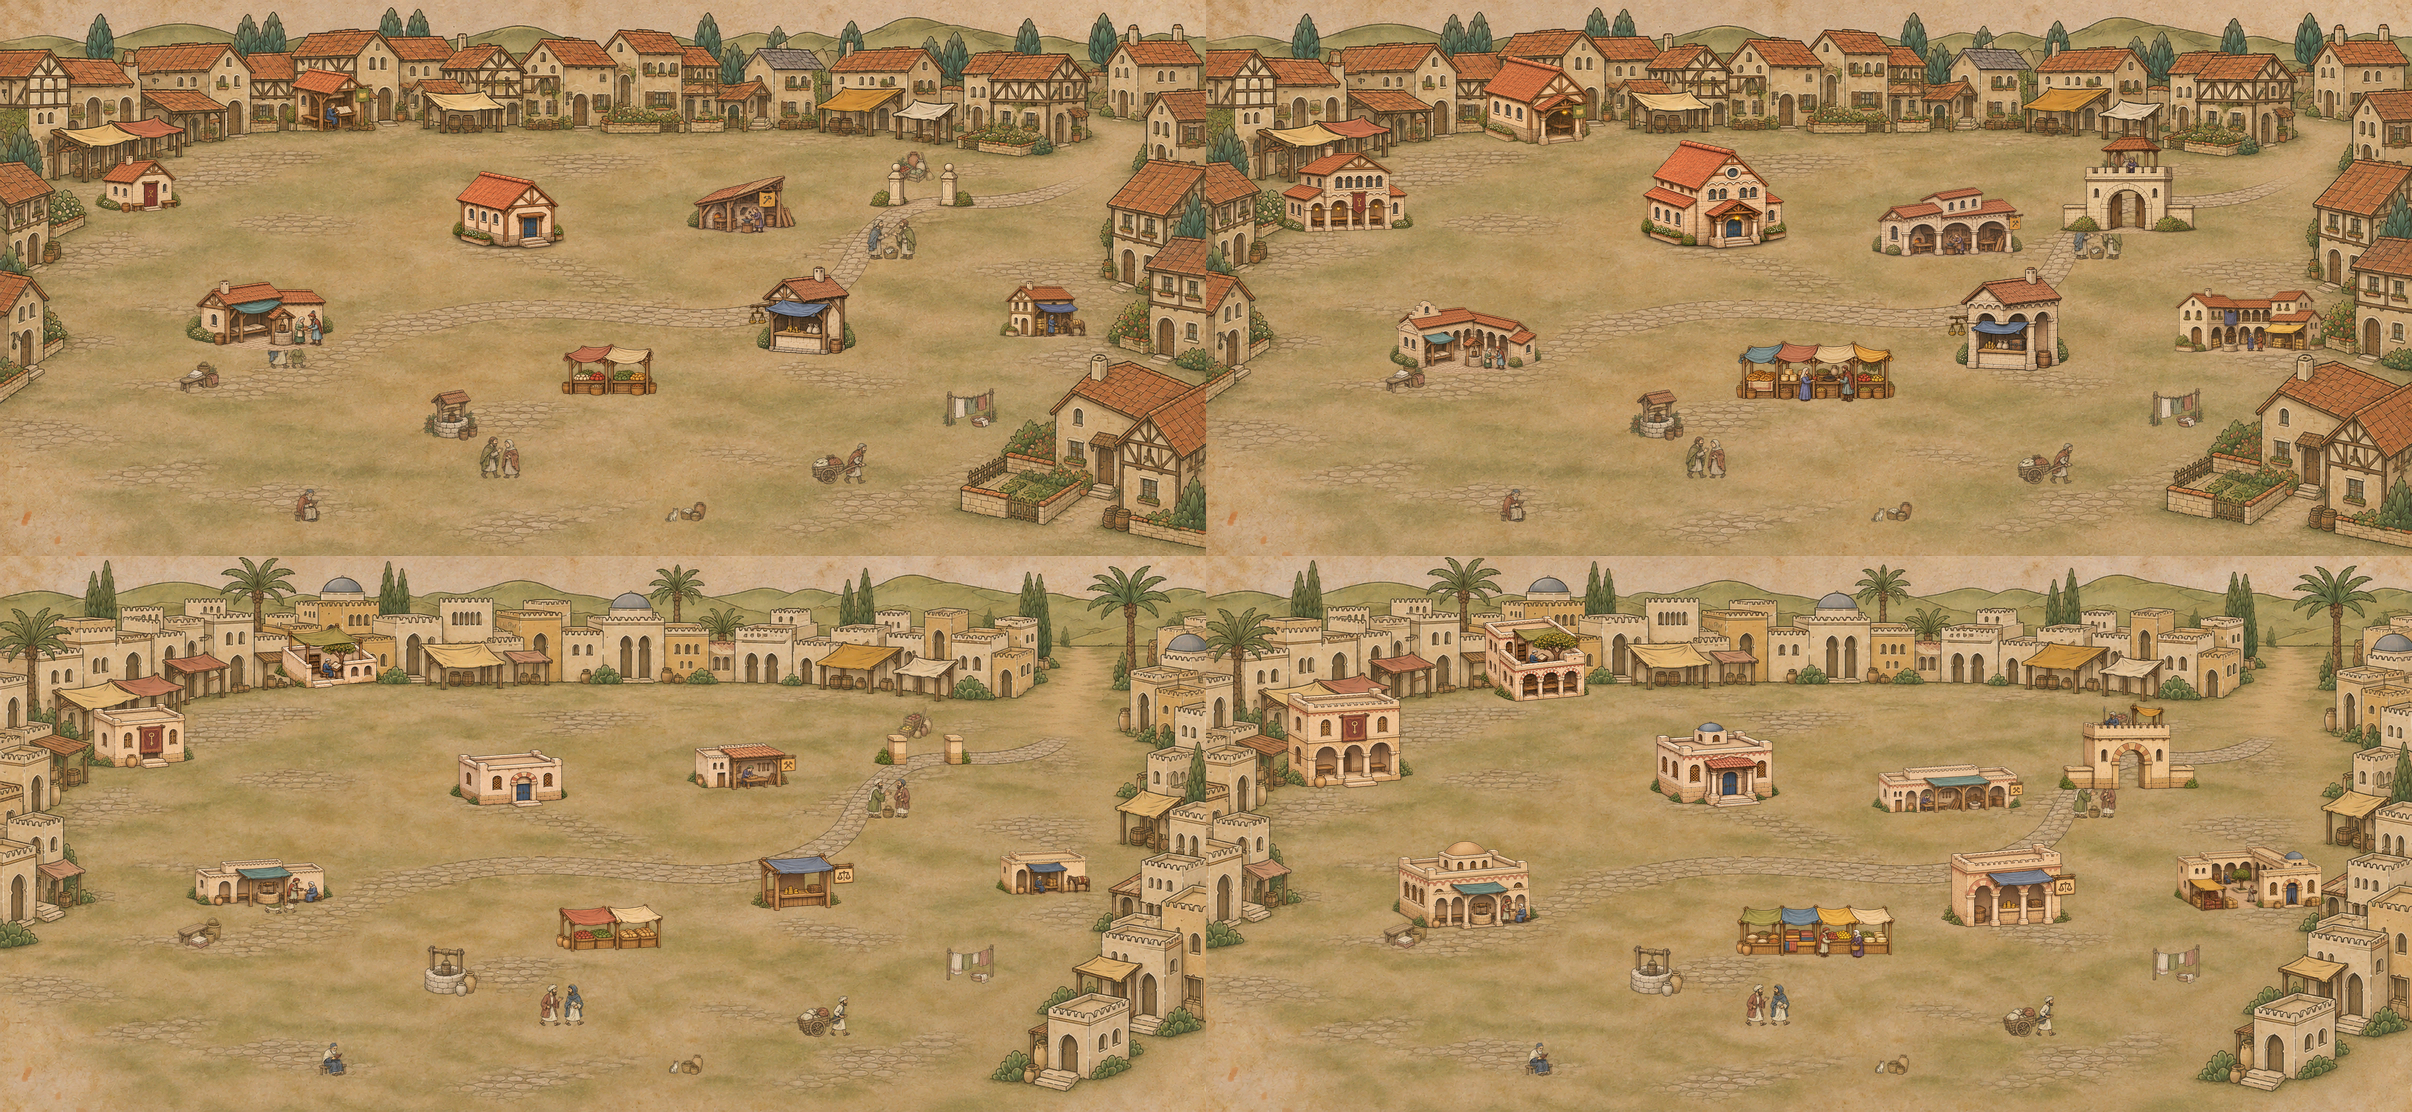
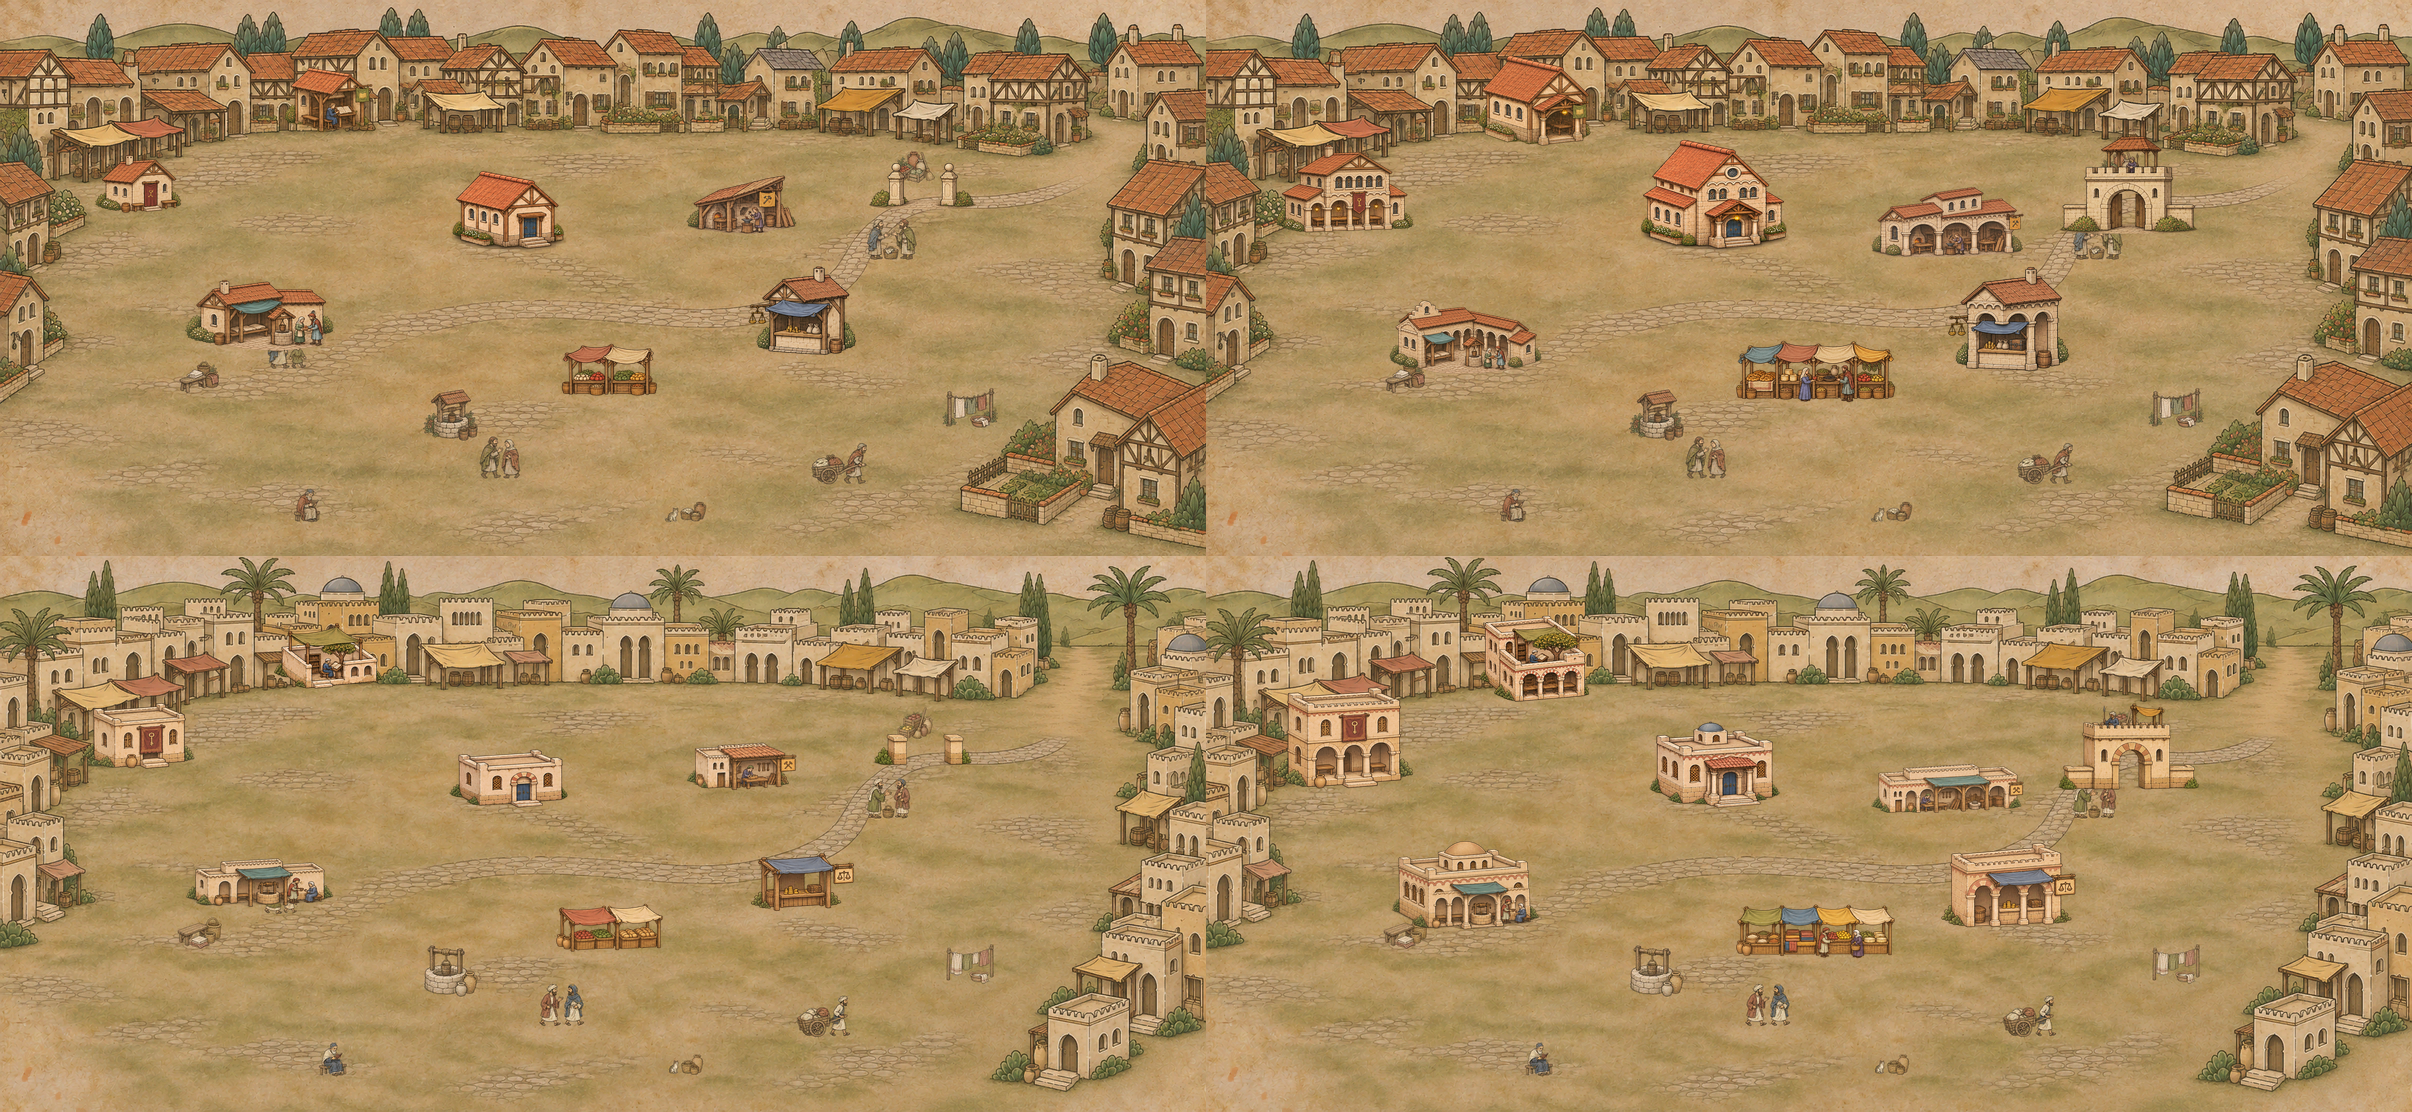
Compact Quarter trade sites and free gates from trade allowance

diff --git a/scripts/kehillah_quarter_scene_preview.py b/scripts/kehillah_quarter_scene_preview.py
@@ -24,7 +24,6 @@ SLOTS = (
     ("external_slot_5", "workshops"),
     ("external_slot_6", "bankers_row"),
     ("external_slot_7", "market_stalls"),
-    ("external_slot_8", "funduq"),
 )
 
 

diff --git a/ROADMAP.md b/ROADMAP.md
@@ -1,5 +1,11 @@
 # Roadmap
 
+**Quarter compact trade sites UPDATED 2026-11-24; live check pending:** The off-scene eighth pin is removed. Seven positions now hold three seeded core buildings, the fixed entrance/Gates and three flexible trade sites chosen from Market, Workshop, Bankers' Row and Funduq/Factor's House. Gates and Wall no longer consume a trade allowance; the Kahal House unlocks up to three trade families. Vanilla Estate does unlock additional slots by tier, but the Quarter retains authored fixed sites for a coherent scene. A new Quarter or a save with empty slot 8 is preferred pending save migration review. See [compact trade sites](docs/implementation/2026-11-24-quarter-compact-trade-sites.md) and [the static composite](docs/implementation/assets/kehillah_quarter_v5_layout_preview.png).
+
+**Quarter playtest costs and spacing UPDATED 2026-11-24; live check pending:** Quarter buildings now cost about 20% of their former gold/piety/prestige and take about 10% of their former construction time for rapid player trials. The first Workshop sprite is more legible, and optional sites 5/6 move apart from the Synagogue and right-hand house line. The earlier Gates specialisation rule and fourth Legendary place are superseded by the compact trade sites entry above. See [playtest tuning](docs/implementation/2026-11-24-quarter-playtest-tuning.md). Rebalance before release.
+
+**Quarter plaza sites REPOSITIONED 2026-11-24; live rendering pending:** the first optional site and right-hand entrance sat against the painted skyline, so Workshop or Market sprites could read as part of background houses. Slots 4 and 5 now sit lower in the lane and court; slot 6 also moves down to keep a legacy Market in slot 4 clear of a neighboring building. Western/MENA all-sites composites and a legacy Worms stress composite pass source review. See [the plaza site correction](docs/implementation/2026-11-24-quarter-plaza-site-correction.md). Restart CK3 before judging placement; save-specific slot contents still need live review.
+
 **Jewish Herald of redemption BUILT 2026-11-23; live check pending:** Jewish characters can take a Jewish-flavored counterpart to Proclaim the Living Word, retaining its requirements and costs. The Herald learns and, unless already held through the rite, adopts Messianic Hope, providing access to the existing mission subject to its own conditions. The personal adoption can replace another tenet. Vanilla?s Jewish Herald trait label is now Herald, leaving Gaon to the mod?s office. See [implementation](docs/implementation/2026-11-23-messianic-herald.md).
 
 **Forbidden Bet Din citations BUILT 2026-11-23; live check pending:** source choices warn when the convening community's rite bans the book. The citing judge gains cherem XP on citation whether or not the argument holds; see [implementation and checks](docs/implementation/2026-11-23-bet-din-forbidden-citations.md).

diff --git a/docs/implementation/2026-11-24-quarter-compact-trade-sites.md b/docs/implementation/2026-11-24-quarter-compact-trade-sites.md
@@ -1,0 +1,13 @@
+**Status:** Compact Quarter layout wired 2026-11-24; source and xTiger checked, live CK3 rendering and save migration pending. Supersedes the slot and Gates eligibility decisions in [the fixed layout](2026-11-23-fixed-quarter-layout.md) and [the playtest tuning note](2026-11-24-quarter-playtest-tuning.md); their art and cost decisions still apply.
+
+# Three trade sites and a fixed entrance
+
+Daniel's developed Worms screenshot exposed a fourth empty building pin beyond the right edge of the painted quarter. It was `external_slot_8` at x=79%, offering Factor's House because that building is one of the flexible trade families. This was a scene-layout defect, not a missing Factor's House sprite.
+
+The Quarter now has seven external positions: the seeded Beit Midrash, Kahal House and Hekdesh, the seeded Quarter Entrance, and three flexible trade sites. The Synagogue's capacity modifier matches the seven declared positions. Slot 8 is removed from the scene definition and the static composite. Market, Workshop, Bankers' Row and Funduq/Factor's House remain available as choices for the three trade sites. The Kahal House allows one trade family per tier, up to three. Legendary Prosperity no longer creates a fourth trade allowance.
+
+Gates and the licensed Wall upgrade the existing Quarter Entrance. They no longer use a trade allowance. This also resolves the reported case where a community with three trades could not raise its initial gates. The host construction permission still applies to Gates, and the Wall licence and arms requirements still apply to later tiers. The neutral entrance is still seeded on new domiciles.
+
+Vanilla's Estate does add external slot capacity at successive main-building tiers. This Quarter instead has fixed, authored positions because a dynamically revealed eighth pin outside the scene makes its composition worse. Three trade choices among four families preserve a meaningful development choice. If the scene still feels empty, add small residents and street activity to the background or to building sprites at their authored sites; adding mechanical slots would also add markers and potential collisions.
+
+This change is intended for a new Quarter or a save whose eighth site is empty. A save with a building already in slot 8 needs a migration review before relying on it. A CK3 restart is required to load the revised domicile type. The updated static four-panel Western/MENA composite is `assets/kehillah_quarter_v5_layout_preview.png`; it checks the authored scene only, not engine slot ordering, hover geometry, or old-save behavior. Those remain live checks.
